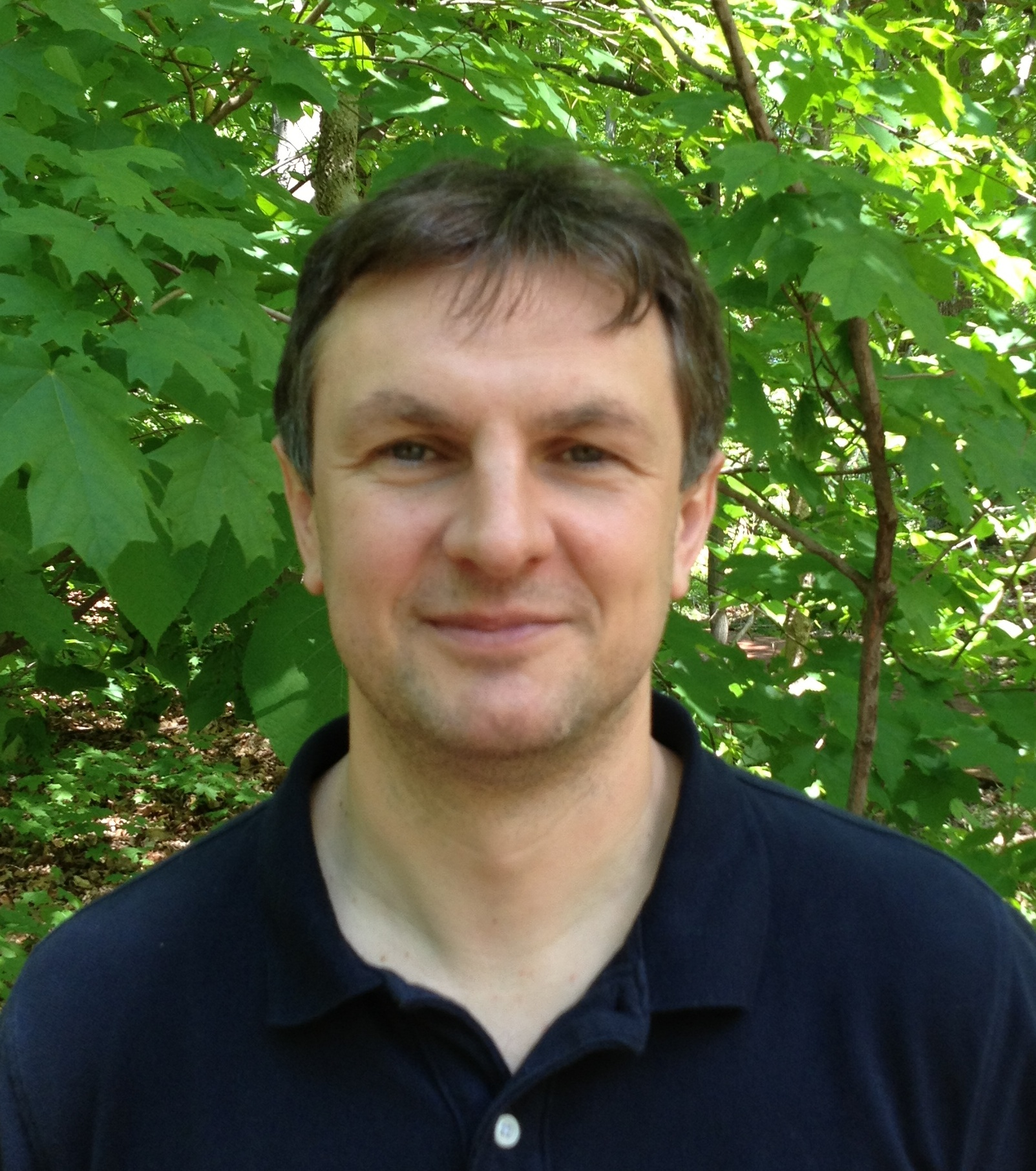
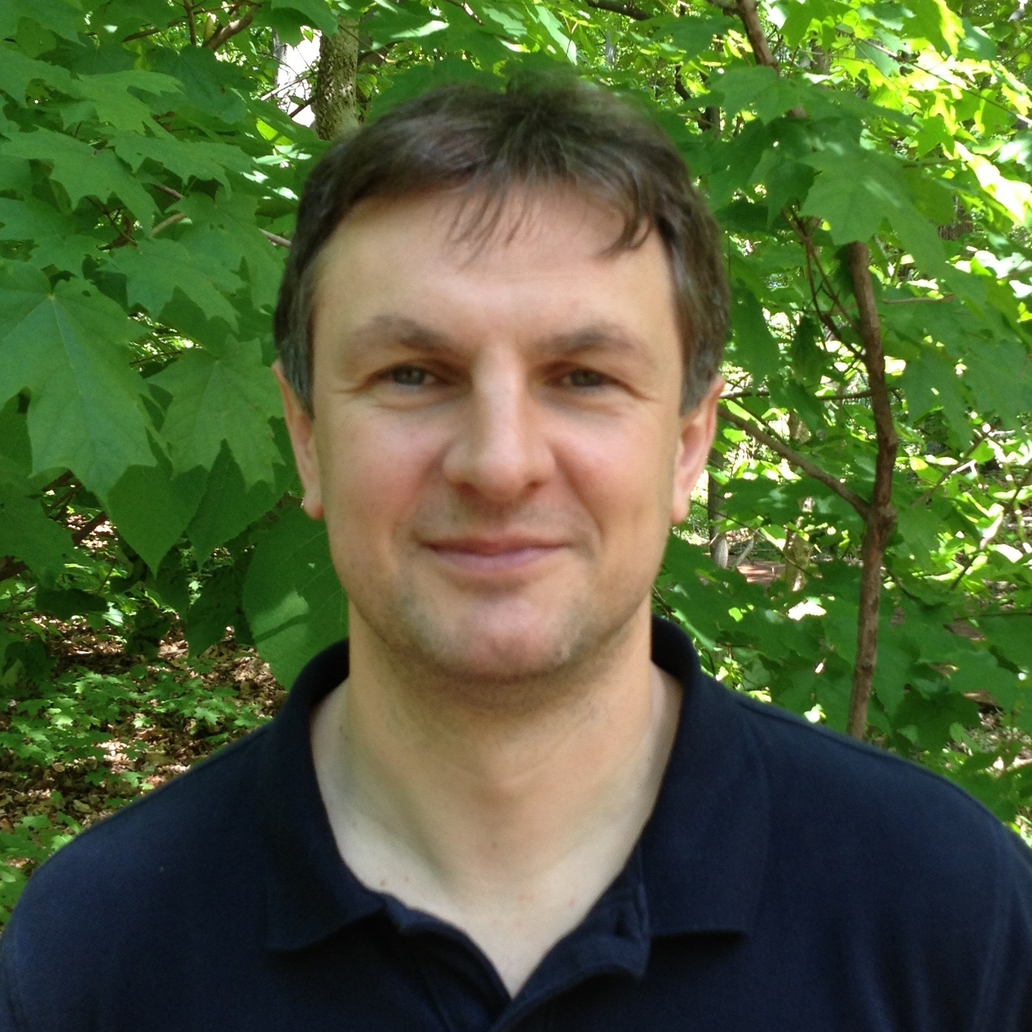
up

diff --git a/caml.html b/caml.html
@@ -221,6 +221,12 @@ Tor Lattimore is an assistant professor at the School of Informatics and Computi
 TBD
 </p>
 
+<li> <img alt="TBD" src="pics/caml/michaels.jpg">
+<h4>Michael S. Ryoo</h4>
+<p align="left">
+Michael S. Ryoo is an Assistant Professor of the School of Informatics and Computing at Indiana University. His research interest is within the areas of Computer Vision and Robotics, with a particular emphasis on human activity recognition/learning, first-person computer vision, and human-robot interaction. Before joining IU, Dr. Ryoo was a staff researcher within the Robotics Section of the NASA's Jet Propulsion Laboratory (JPL) from 2011 to 2015. Dr. Ryoo received the Ph.D. degree from the University of Texas at Austin in 2008, and the B.S. degree from the Korea Advanced Institute of Science and Technology (KAIST) in 2004. He has been organizing a number of tutorials and workshops at major Computer Vision conferences including CVPR 2011/2014/2016, and is the winner of the best vision paper award at ICRA 2016.
+</p>
+
 <li> <img alt="TBD" src="pics/caml/martha.jpg">
 <h4>Martha White</h4>
 <p align="left">
